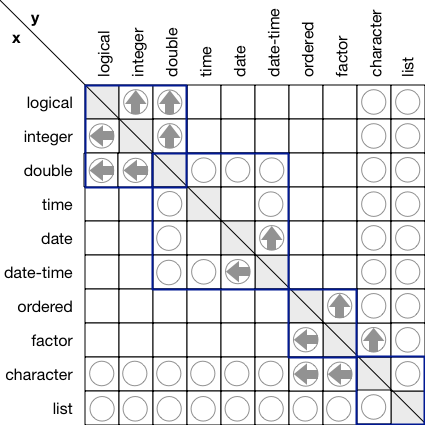
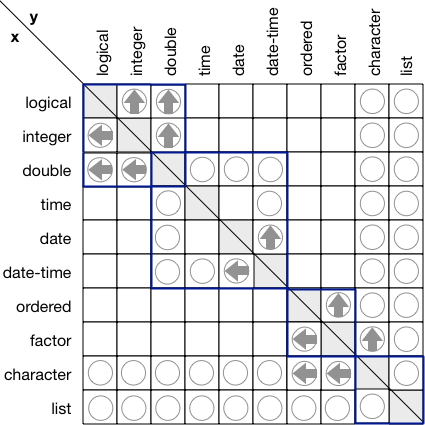
Improve readmes

diff --git a/README.md b/README.md
@@ -9,56 +9,69 @@ status](https://travis-ci.org/r-lib/vctrs.svg?branch=master)](https://travis-ci.
 status](https://codecov.io/gh/r-lib/vctrs/branch/master/graph/badge.svg)](https://codecov.io/github/r-lib/vctrs?branch=master)
 [![lifecycle](https://img.shields.io/badge/lifecycle-experimental-orange.svg)](https://www.tidyverse.org/lifecycle/#experimental)
 
-The primary short-term goal of vctrs is to develop a theory of “types”
-that help us reason about the “correct” type and shape to return from
-vectorised functions that have to combine inputs with different types
-(e.g. `c()` and `dplyr::bind_rows()`). For the user, the goal is to be
-invisible: a principled approach to type coercion will provide greater
-consistency across functions, leading to a more accurate mental model
-and fewer suprises.
+The primary short-term goal of vctrs is to develop a [type
+system](https://en.wikipedia.org/wiki/Type_system) for vectors
+(including array and data frames) that help us reason about the
+“correct” type and shape to return from vectorised functions that
+combine inputs of different types (e.g. `c()`, `ifelse()`, `rbind()`).
+Our hope that this will make the package invisible for most users,
+instead of being suprised by the result of a function, a type *system*
+will mean that you build up an accurate mental model just from
+day-to-day use.
 
-In the medium-term, we will provide developer documentation for creating
-new types of S3 vector. This will describe what you need to do make your
-new class by into the vctrs coercion philosophy, well as what base
-generics you should be supply methods for. We will also reimplement the
-core coercions in C for performance, and consider how best to perform
-double dispatch without using S4.
+Currently, the vctrs type system is fixed, and only works with types
+from base R (plus a handful of useful new types). In the medium-term, we
+will make the type system extensible, and document how to create new
+vector types that work with the type system. We will also reimplement
+the core coercions in C for performance, and consider how best to
+implemented the double dispatch needed for the core type system
+functions, `vec_cast()` and `vec_type2()`.
 
-In the long-run, vctrs will also expand to provide functions that
-working with logical and numeric vectors, and vectors in general. It
-will become a natural complement to stringr (strings), lubridate
-(date/times), and forcats (factors), and bring together various helpers
-that are currently scattered across packages like ggplot2 (e.g.
-`cut_number()`), dplyr (e.g. `coalese()`), and tidyr (e.g. `fill()`).
-vctrs is a low-dependency package suitable that will be used from other
-packages like purrr and dplyr.
+In the longer-term, vctrs will become the home for tidyverse vector
+functions that work with logical and numeric vectors, and vectors in
+general. This will make it a natural complement to
+[stringr](https://stringr.tidyverse.org) (strings),
+[lubridate](http://lubridate.tidyverse.org) (date/times), and
+[forcats](https://forcats.tidyverse.org) (factors), and will bring
+together various helpers that are currently scattered across packages,
+`ggplot2::cut_number()`, `dplyr::coalesce()`, and `tidyr::fill()`.
+
+vctrs has few dependencies and is suitable for use from other packages.
 
 ## Installation
 
-You can install the development version of vctrs from GitHub with:
+vctrs is not currently on CRAN. Install the development version from
+GitHub with:
 
 ``` r
 # install.packages("devtools")
 devtools::install_github("r-lib/vctrs")
 ```
 
-## Examples
-
-### Base vectors
+## Usage
 
 ``` r
 library(vctrs)
+```
 
-# vec_c() basically works like c(), but with stricter rules for what 
-# gets coerced
+### Base vectors
+
+`vec_c()` works like `c()`, but has stricter coercion rules:
+
+``` r
 vec_c(TRUE, 1)
 #> [1] 1 1
 vec_c(1L, 1.5)
 #> [1] 1.0 1.5
 vec_c(1.5, "x")
 #> Error: No common type for double and character
+```
 
-# You can override the rules by supplying the desired type of the output
+Unlike `c()`, you can optionally specify the desired output type:
+
+``` r
+vec_c(1, 2, .type = integer())
+#> [1] 1 2
 vec_c(1, "x", .type = character())
 #> [1] "1" "x"
 vec_c(1, "x", .type = list())
@@ -67,17 +80,24 @@ vec_c(1, "x", .type = list())
 #> 
 #> [[2]]
 #> [1] "x"
+```
 
-# Coercions will warn when lossy (i.e. you can't round trip)
-vec_c(1, 1.5, 2, .type = integer())
-#> Warning: Lossy conversion from double to integer [Locations: 1]
-#> [1] 1 1 2
+This supports a much wider range of casts (more on that below) than the
+automatic coercions, but it can still fail:
+
+``` r
+vec_c(Sys.Date(), .type = factor())
+#> Error: Can't cast date to factor
 ```
 
 ### What is a type?
 
+There are a number of 1d types that built-in to base R and supported by
+vctrs: logical, integer, double, character, factor/ordered, date
+(`Date`), datetime (`POSIXct`), and time (`difftime`). You can get a
+textual representation of the type of a vector with `vec_type()`:
+
 ``` r
-# Describe the type of a vector with vec_type()
 vec_type(letters)
 #> type: character
 vec_type(1:50)
@@ -87,18 +107,16 @@ vec_type(list(1, 2, 3))
 ```
 
 Internally, we represent the type of a vector with a 0-length subset of
-the vector; that allows us to use value and types interchangeably in
-many cases, and we can rely base constructors for empty vectors.
+the vector; this allows us to use value and types interchangeably in
+many cases, and we can construct type specifications using base
+constructors (e.g, `double()`, `factor(levels = c("a", "b"))`).
 
 ### Coercion and casting
 
-There are two primary components to the implementation of vectors,
-`vec_type2()` and `vec_cast()`.
-
-`vec_type2()` is used for implicit coercions: given two types, it
-returns their common type or dies trying. `vec_type2()` is associative
-and commutative, which means that to find the common type for more than
-two vectors, you can use `Reduce()`.
+The vctrs type system is defined by two functions: `vec_type2()` and
+`vec_cast()`. `vec_type2()` is used for implicit coercions: given two
+types, it returns their common type, or an error stating that there’s no
+common type.
 
 ``` r
 vec_type2(integer(), double())
@@ -107,15 +125,22 @@ vec_type2(integer(), double())
 # no common type
 vec_type2(factor(), Sys.Date())
 #> Error: No common type for factor and date
+```
 
+`vec_type2()` is associative and commutative, so if you have more than
+two types, you can use `Reduce()` to find the common type:
+
+``` r
 types <- list(integer(), double(), logical())
 Reduce(vec_type2, types)
 #> numeric(0)
 ```
 
 `vec_cast()` is used for explicit casts: given a value and a type, it
-casts the value to the type, or dies trying. It will warn if a cast is
-possible in general, but information is lost for a specific input.
+casts the value to the type or throws an error stating that the cast is
+not possible. If a cast is possible in general (i.e. double -\>
+integer), but information is lost for a specific input (e.g. 1.5 -\> 1),
+it will generate a warning.
 
 ``` r
 # Cast succeeds
@@ -132,15 +157,16 @@ vec_cast(c(1.5, 2.5), factor("a"))
 #> Error: Can't cast double to factor
 ```
 
-The set of possible casts is a subset of possible automatic coercions,
-and both are summarised in the following diagram where arrows represent
-automatic coercions, and circles represent possible casts.
+The set of possible casts is a subset of possible automatic coercions.
+The following diagram summarises both casts (arrows) and coercions
+(circles) for all base types supported by vctrs:
 
 ![](man/figures/combined.png)
 
 ### Data frames
 
-The type of a data frame is the type of each column:
+vctrs defines the type of a data frame as the type of each column
+labelled with the name of the column:
 
 ``` r
 df1 <- data.frame(x = TRUE, y = 1L)
@@ -160,10 +186,10 @@ vec_type(df2)
 
 The common type of two data frames is the common type of each column
 that occurs in both data frame frames, and the union of the columns that
-are unique:
+only occur in one:
 
 ``` r
-max(vec_type(df1), vec_type(df2))
+vec_type(vec_type2(df1, df2))
 #> type: data.frame<
 #>  x: double
 #>  y: integer
@@ -189,6 +215,25 @@ x1[[4]]
 
 x1[[5]] <- factor("x")
 #> Error: Can't cast factor to integer
+```
+
+This provides a natural type for nested data frames:
+
+``` r
+vec_type(as_list_of(split(mtcars, mtcars$cyl)))
+#> type: list_of<data.frame<
+#>  mpg : double
+#>  cyl : double
+#>  disp: double
+#>  hp  : double
+#>  drat: double
+#>  wt  : double
+#>  qsec: double
+#>  vs  : double
+#>  am  : double
+#>  gear: double
+#>  carb: double
+#> >>
 ```
 
 ## Tidyverse functions
